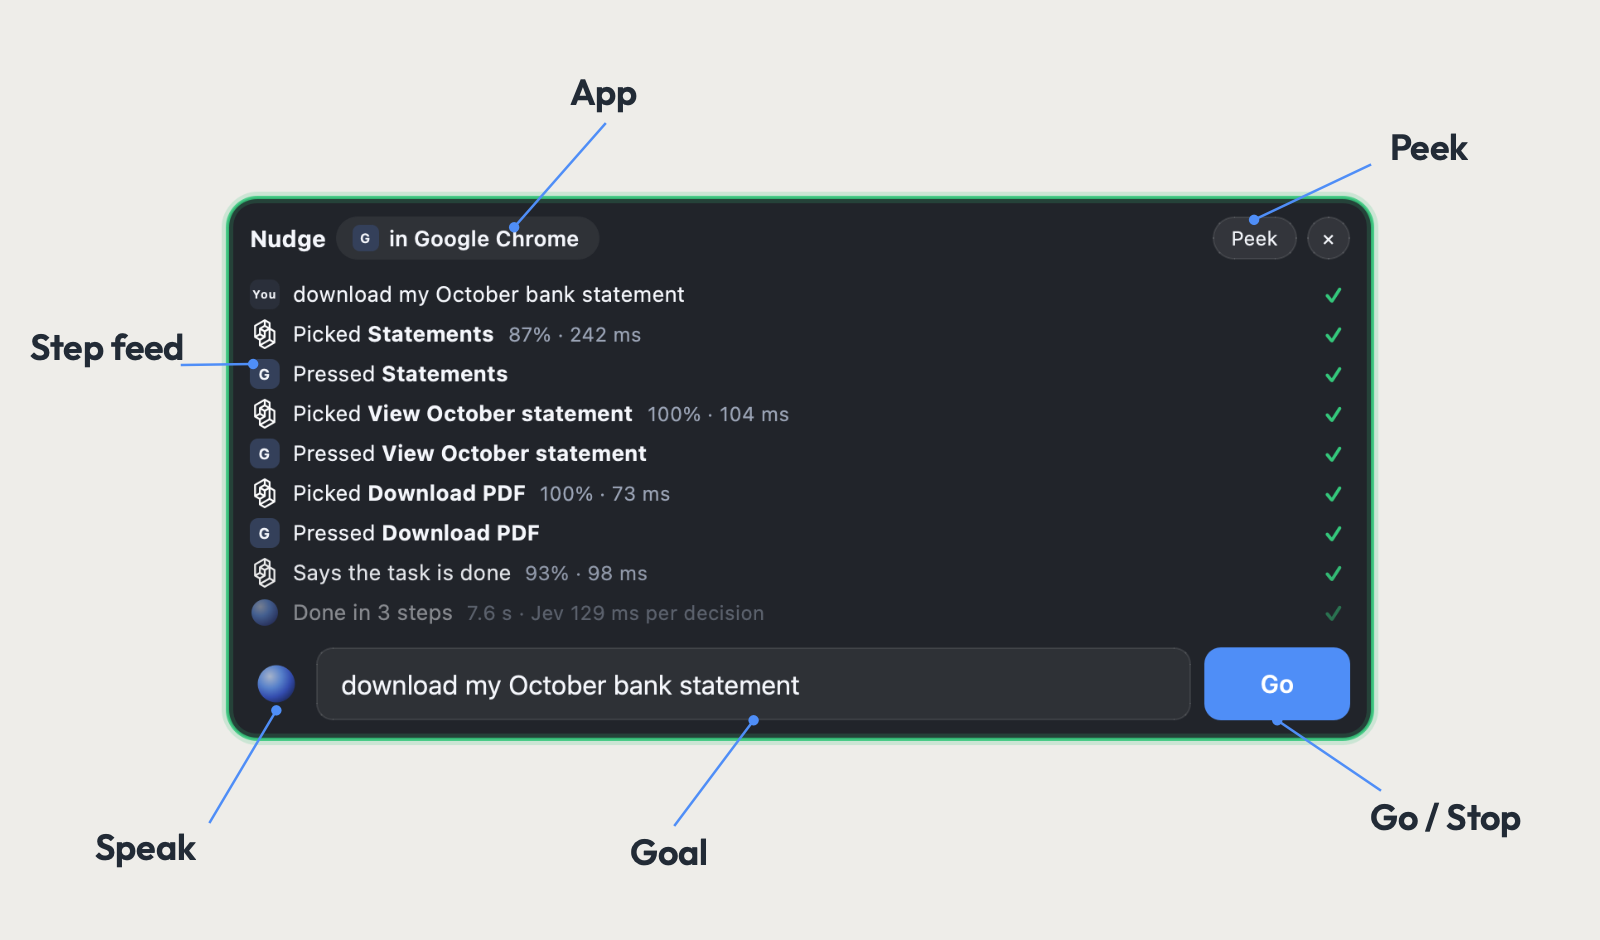
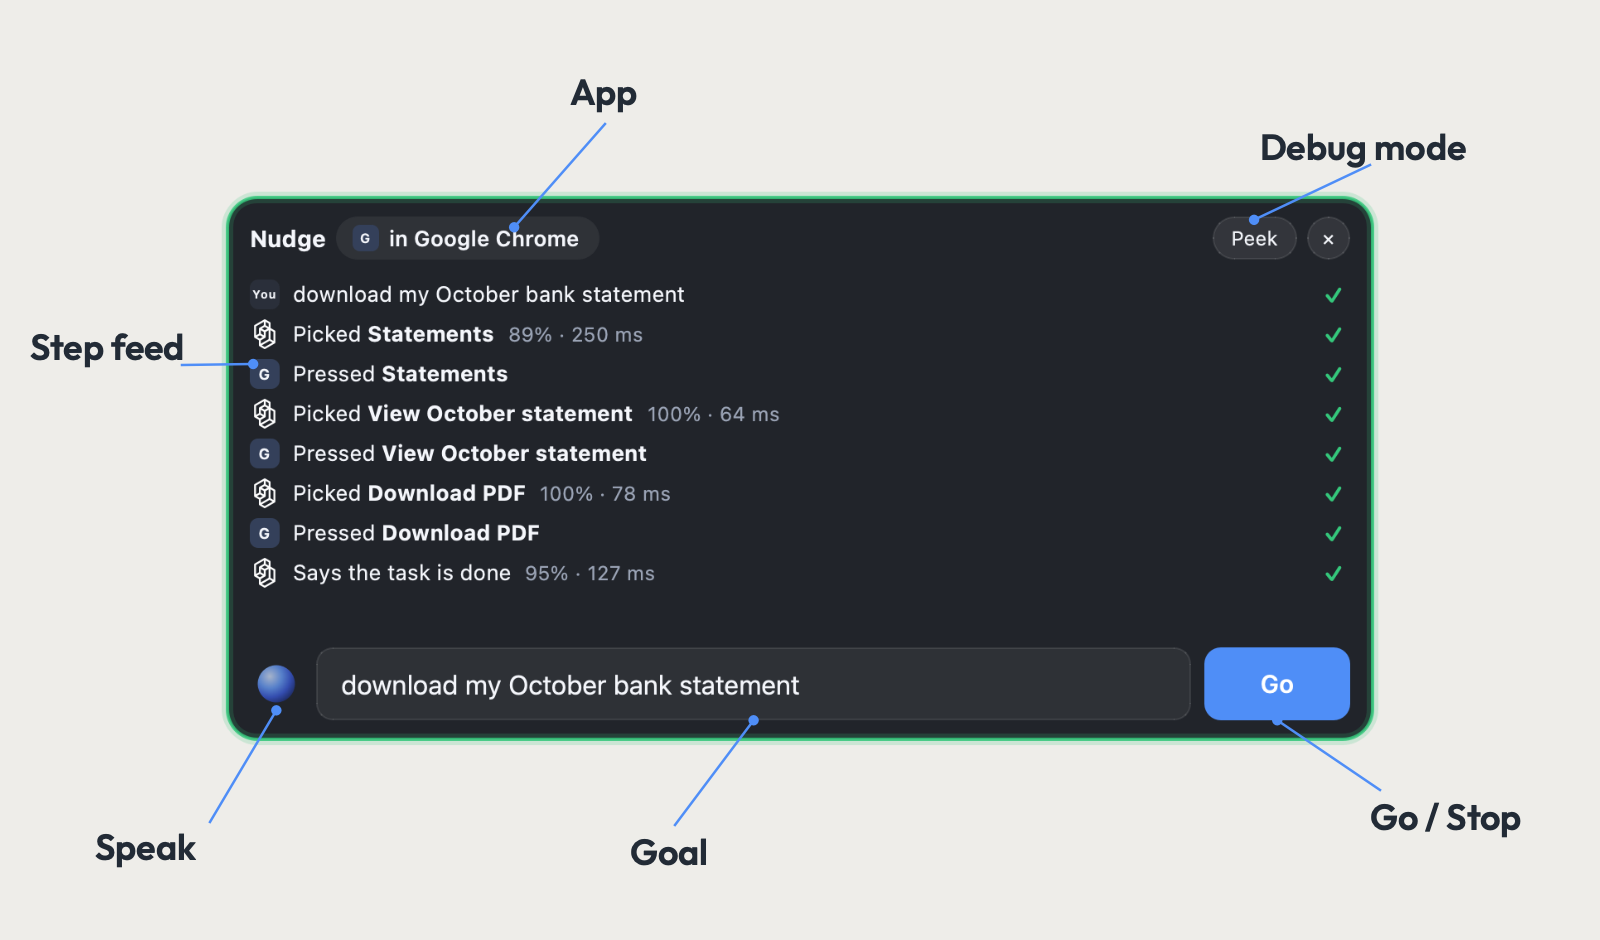
docs(readme): simplify photos and label debug mode

diff --git a/docs/launch/scripts/build_preview.py b/docs/launch/scripts/build_preview.py
@@ -1,14 +1,8 @@
-"""Build one complete CLI-to-result bank GIF and the video poster."""
+"""Build the bank demo GIF and poster from the delivered launch film."""
 
-from pathlib import Path
-import os
+import json
 import subprocess
-import tempfile
-
-os.environ["QT_QPA_PLATFORM"] = "offscreen"
-from PySide6.QtCore import QRectF
-from PySide6.QtGui import QColor, QFont, QImage, QPainter
-from PySide6.QtWidgets import QApplication
+from pathlib import Path
 
 PROJECT = Path(__file__).resolve().parents[1]
 OUT = PROJECT.parent / "assets"
@@ -18,77 +12,49 @@ def run(*args):
     subprocess.run(["ffmpeg", "-y", "-v", "error", *map(str, args)], check=True)
 
 
-def terminal_intro(destination):
-    app = QApplication.instance() or QApplication([])
-    canvas = QImage(1920, 1080, QImage.Format.Format_RGB32)
-    canvas.fill(QColor("#11151c"))
-    painter = QPainter(canvas)
-    painter.setRenderHint(QPainter.RenderHint.Antialiasing)
-    font = QFont("Menlo")
-    font.setPixelSize(38)
-    painter.setFont(font)
-    painter.setPen(QColor("#dce4ef"))
-    lines = [
-        "$ node docs/launch/scripts/capture_host.mjs bank",
-        "  'http://127.0.0.1:8765/?app=bank&theme=light'",
-        "  'download my October bank statement'",
-    ]
-    for i, line in enumerate(lines):
-        painter.drawText(100, 200 + i * 68, line)
-    output = QImage(str(OUT / "nudge-terminal.png"))
-    assert not output.isNull()
-    painter.drawImage(QRectF(55, 500, 1800, 99), output, QRectF(0, 84, 1600, 88))
-    painter.end()
-    assert canvas.save(str(destination))
-
-
 def main():
     video = OUT / "nudge-launch.mp4"
     if not video.is_file():
         raise SystemExit("Render the launch MP4 first.")
+    slots = json.loads((PROJECT / "shot-slots.json").read_text())
+    _, start, duration = next(s for s in slots if s[0] == "bank")
+    # Begin after the request window settles so the GIF has a visible first frame.
+    gif_start, gif_duration = start + .3, duration - .3
     run(
         "-ss",
-        "12.3",
+        start + duration - 2.7,
         "-i",
         video,
         "-frames:v",
-        "1",
+        1,
         "-update",
-        "1",
+        1,
         OUT / "nudge-launch-poster.png",
     )
-    with tempfile.TemporaryDirectory(prefix="nudge-gif-") as temporary:
-        temp = Path(temporary)
-        terminal_intro(temp / "intro.png")
-        filters = (
-            "[0:v]fps=15,trim=duration=1.4,setpts=PTS-STARTPTS[intro];"
-            "[1:v]fps=15,trim=start=6.2:end=12.8,setpts=PTS-STARTPTS[run];"
-            "[intro][run]concat=n=2:v=1:a=0,scale=960:-1:flags=lanczos,split[a][b];"
-            "[a]palettegen=max_colors=128:stats_mode=diff[p];"
-            "[b][p]paletteuse=dither=bayer:bayer_scale=3:diff_mode=rectangle[out]"
-        )
-        run(
-            "-loop",
-            "1",
-            "-t",
-            "1.4",
-            "-i",
-            temp / "intro.png",
-            "-i",
-            video,
-            "-filter_complex",
-            filters,
-            "-map",
-            "[out]",
-            "-an",
-            "-loop",
-            "0",
-            OUT / "nudge-demo.gif",
-        )
+    filters = (
+        f"fps=12,trim=duration={gif_duration - .4},"
+        "tpad=stop_mode=clone:stop_duration=0.4,scale=960:-1:flags=lanczos,split[a][b];"
+        "[a]palettegen=max_colors=128:stats_mode=diff[p];"
+        "[b][p]paletteuse=dither=bayer:bayer_scale=3:diff_mode=rectangle"
+    )
+    run(
+        "-ss",
+        gif_start,
+        "-t",
+        gif_duration,
+        "-i",
+        video,
+        "-filter_complex",
+        filters,
+        "-an",
+        "-loop",
+        0,
+        OUT / "nudge-demo.gif",
+    )
     size = (OUT / "nudge-demo.gif").stat().st_size
     assert size < 2.5 * 1024 * 1024, f"GIF is too large: {size} bytes"
     print(
-        f"Created the poster and one complete 8-second bank GIF ({size / 1024:.0f} KiB)."
+        f"Created the poster and one {gif_duration:g}-second bank GIF ({size / 1024:.0f} KiB)."
     )
 
 

diff --git a/docs/launch/scripts/build_artwork.py b/docs/launch/scripts/build_artwork.py
@@ -2,8 +2,8 @@
 
 import json
 import os
-from pathlib import Path
 import re
+from pathlib import Path
 
 os.environ["QT_QPA_PLATFORM"] = "offscreen"
 from PySide6.QtCore import QPointF, QRectF, Qt
@@ -64,8 +64,8 @@ def canvas(width, height, background=GROUND):
 def banner():
     value, p = canvas(1800, 960)
     text(p, "Nudge", 100, 185, 140, weight=QFont.Weight.DemiBold)
-    text(p, "Assisted", 105, 305, 66)
-    text(p, "computer control.", 105, 390, 60)
+    text(p, "Computer control for", 105, 305, 60)
+    text(p, "limited dexterity", 105, 390, 60)
     image(p, load("browser/bank-page-idle.png"), 800, 55, 920)
     target = QPointF(800 + 107.5 * 920 / 1280, 55 + 258 * 920 / 1280)
     for offset, alpha, width in [(0, 160, 7), (12, 65, 4), (24, 30, 3)]:
@@ -111,8 +111,8 @@ def anatomy():
     callouts = [
         ("App", 570, 105, QPointF(x + 355 * scale, y + 45 * scale), QPointF(605, 124)),
         (
-            "Peek",
-            1390,
+            "Debug mode",
+            1260,
             160,
             QPointF(x + 1248 * scale, y + 36 * scale),
             QPointF(1370, 165),
@@ -167,7 +167,7 @@ def terminal():
         color = "#dce4ef"
         weight = QFont.Weight.Normal
         for part in re.split("(" + re.escape(chr(27) + "[") + "[0-9;]*m)", line):
-            if part.startswith("["):
+            if part.startswith("\x1b["):
                 code = part[2:-1]
                 if code == "0":
                     color = "#dce4ef"
@@ -186,7 +186,7 @@ def terminal():
 
 
 def main():
-    app = QApplication.instance() or QApplication([])
+    _app = QApplication.instance() or QApplication([])
     assert QFontDatabase.addApplicationFont(str(A / "fonts/Outfit.ttf")) != -1
     OUT.mkdir(exist_ok=True)
     banner()

diff --git a/README.md b/README.md
@@ -29,16 +29,16 @@ Nudge is a macOS and Windows prototype built at StormHacks 2026. App support dep
 
 ## See it run
 
-[![A complete bank run launched from the terminal, with Nudge's live feed and blue cursor following each browser action](docs/assets/nudge-demo.gif)](docs/assets/nudge-launch.mp4)
+[![Nudge completes a bank statement request, showing its decisions and blue cursor on each browser control](docs/assets/nudge-demo.gif)](docs/assets/nudge-launch.mp4)
 
 [Watch the launch video](docs/assets/nudge-launch.mp4) for the statement download, YouTube search, Jev control selection and email review. The GIF shows the complete bank flow with waiting shortened. The recordings use real model clients through a browser capture adapter and fictitious bank and mail data. See [capture details and music credits](docs/launch/ASSETS.md).
 
 <details>
-<summary>Terminal output from the bank run</summary>
+<summary>Photos</summary>
 
 ![Nudge's captured CLI output in a dark terminal, showing the statement request, selected controls and successful completion](docs/assets/nudge-terminal.png)
 
-These are the console lines from the same recording, rendered as a terminal image.
+Terminal output from the bank recording.
 
 </details>
 
@@ -84,7 +84,7 @@ Focus the app, summon the bar, and describe your task. Review drafts and confirm
 | macOS | ⌘⇧Space |
 | Windows | Ctrl+Shift+Space |
 
-![The actual Nudge bar labelled with its target app, step feed, goal field, Peek control and Go or Stop button](docs/assets/nudge-interface.png)
+![The actual Nudge bar labelled with its target app, step feed, goal field, debug mode control and Go or Stop button](docs/assets/nudge-interface.png)
 
 Try goals that name the task and its destination:
 
